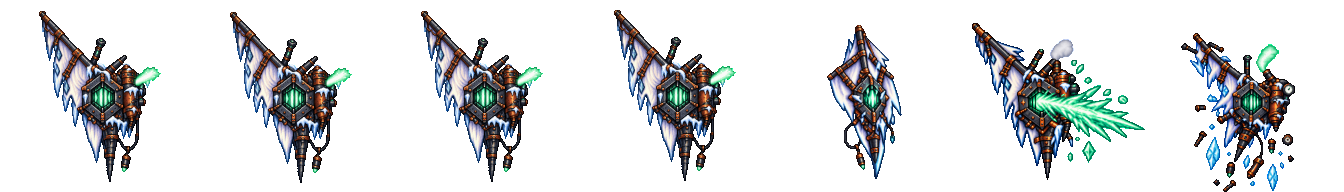
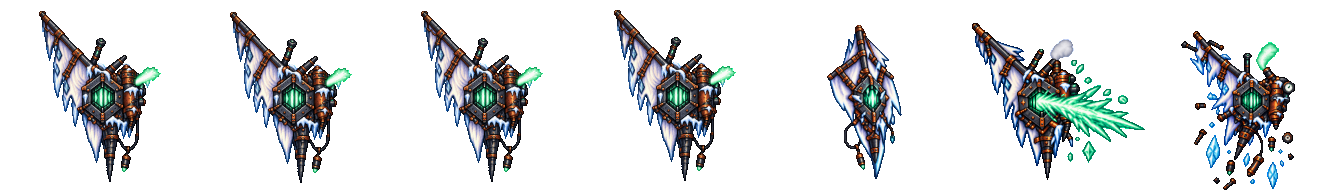
Frost Kite: keep death debris off the cell border

Changed region(s): [[0.875, 0.1562, 0.9688, 1.0]]

diff --git a/Pause/Assets/Art/Enemies/src~/frost_enemy_color/assemble.py b/Pause/Assets/Art/Enemies/src~/frost_enemy_color/assemble.py
@@ -43,6 +43,9 @@ for i in range(n):
     canvas=Image.new('RGBA',(cs,cs),(0,0,0,0)); canvas.alpha_composite(Image.fromarray(cell,'RGBA'),(round(ox-cx),round(oy-cy)))
     if i==0: base0=canvas.copy()
     if i<4: canvas=idle(base0,i)
+    elif (np.array(canvas)[...,3]>0).any():
+        ys=np.where(np.array(canvas)[...,3]>0)[0]
+        if ys.max()>=cs-2: canvas=Image.fromarray(np.roll(np.array(canvas),-(ys.max()-(cs-3)),axis=0),'RGBA')
     out.alpha_composite(canvas,(i*cs,0))
 (H/'out').mkdir(exist_ok=True); out.save(H/'out'/f'{k}.png')
 if '--wire' in sys.argv: out.save(RES/f'{k}.png')
